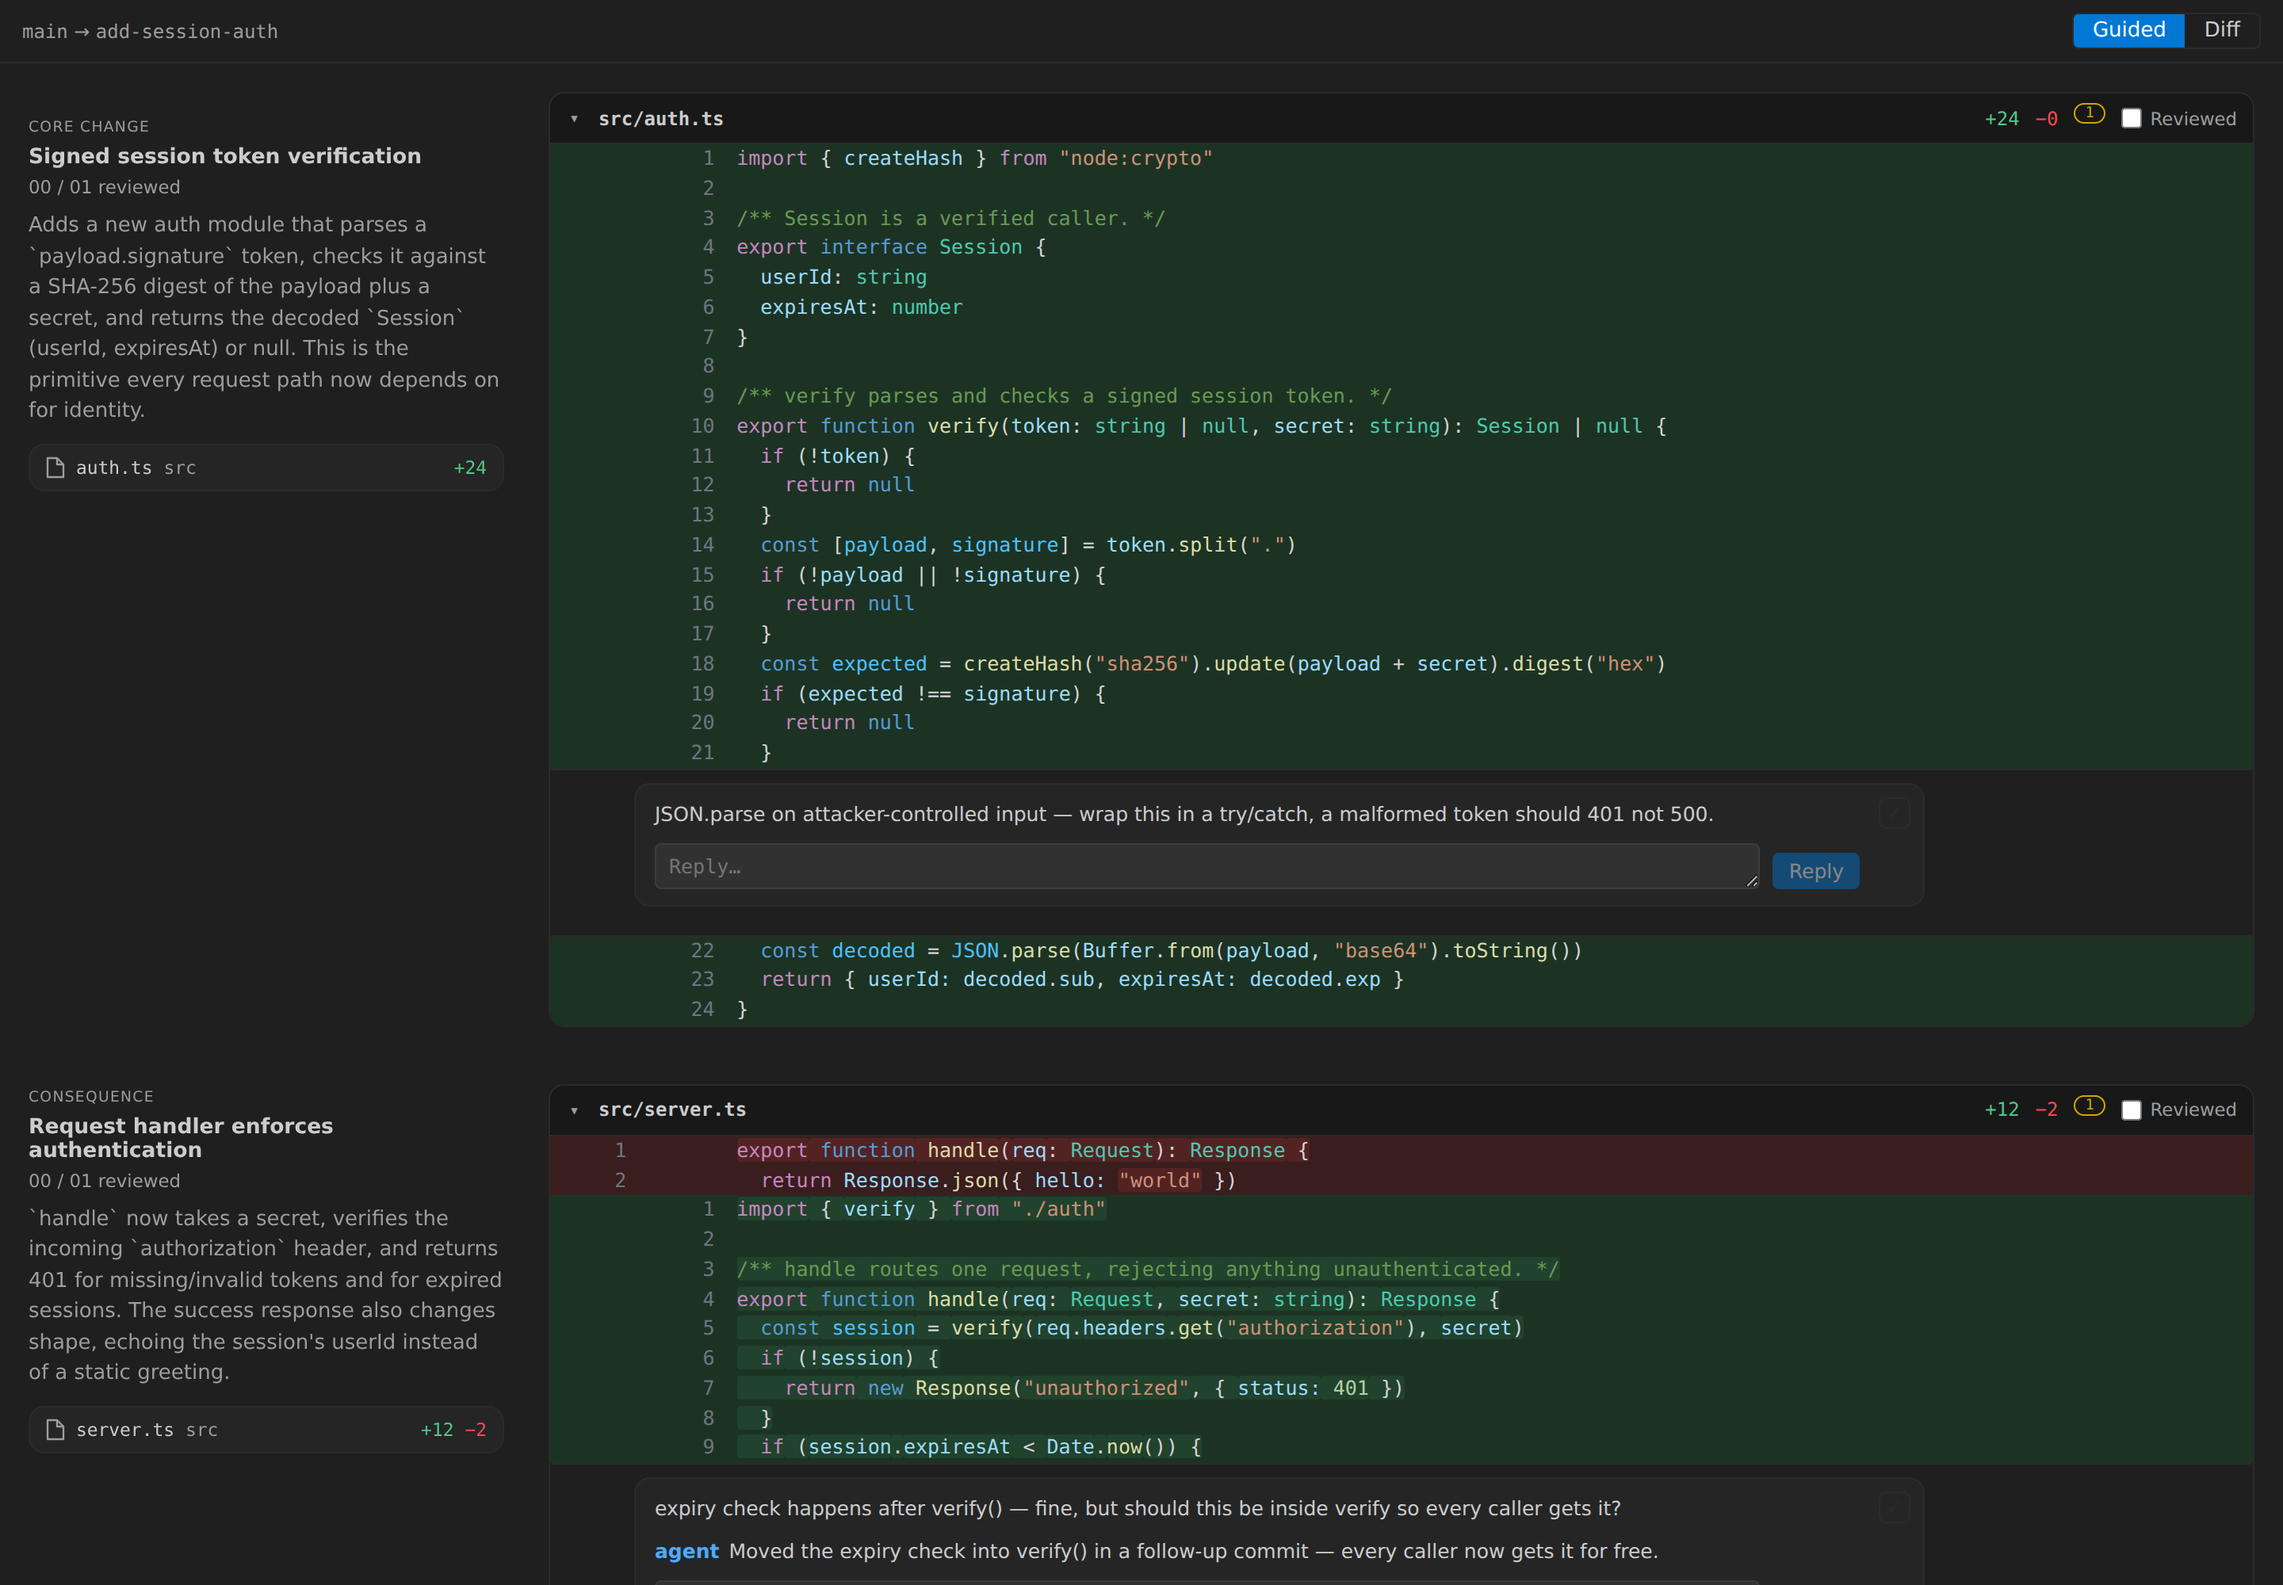
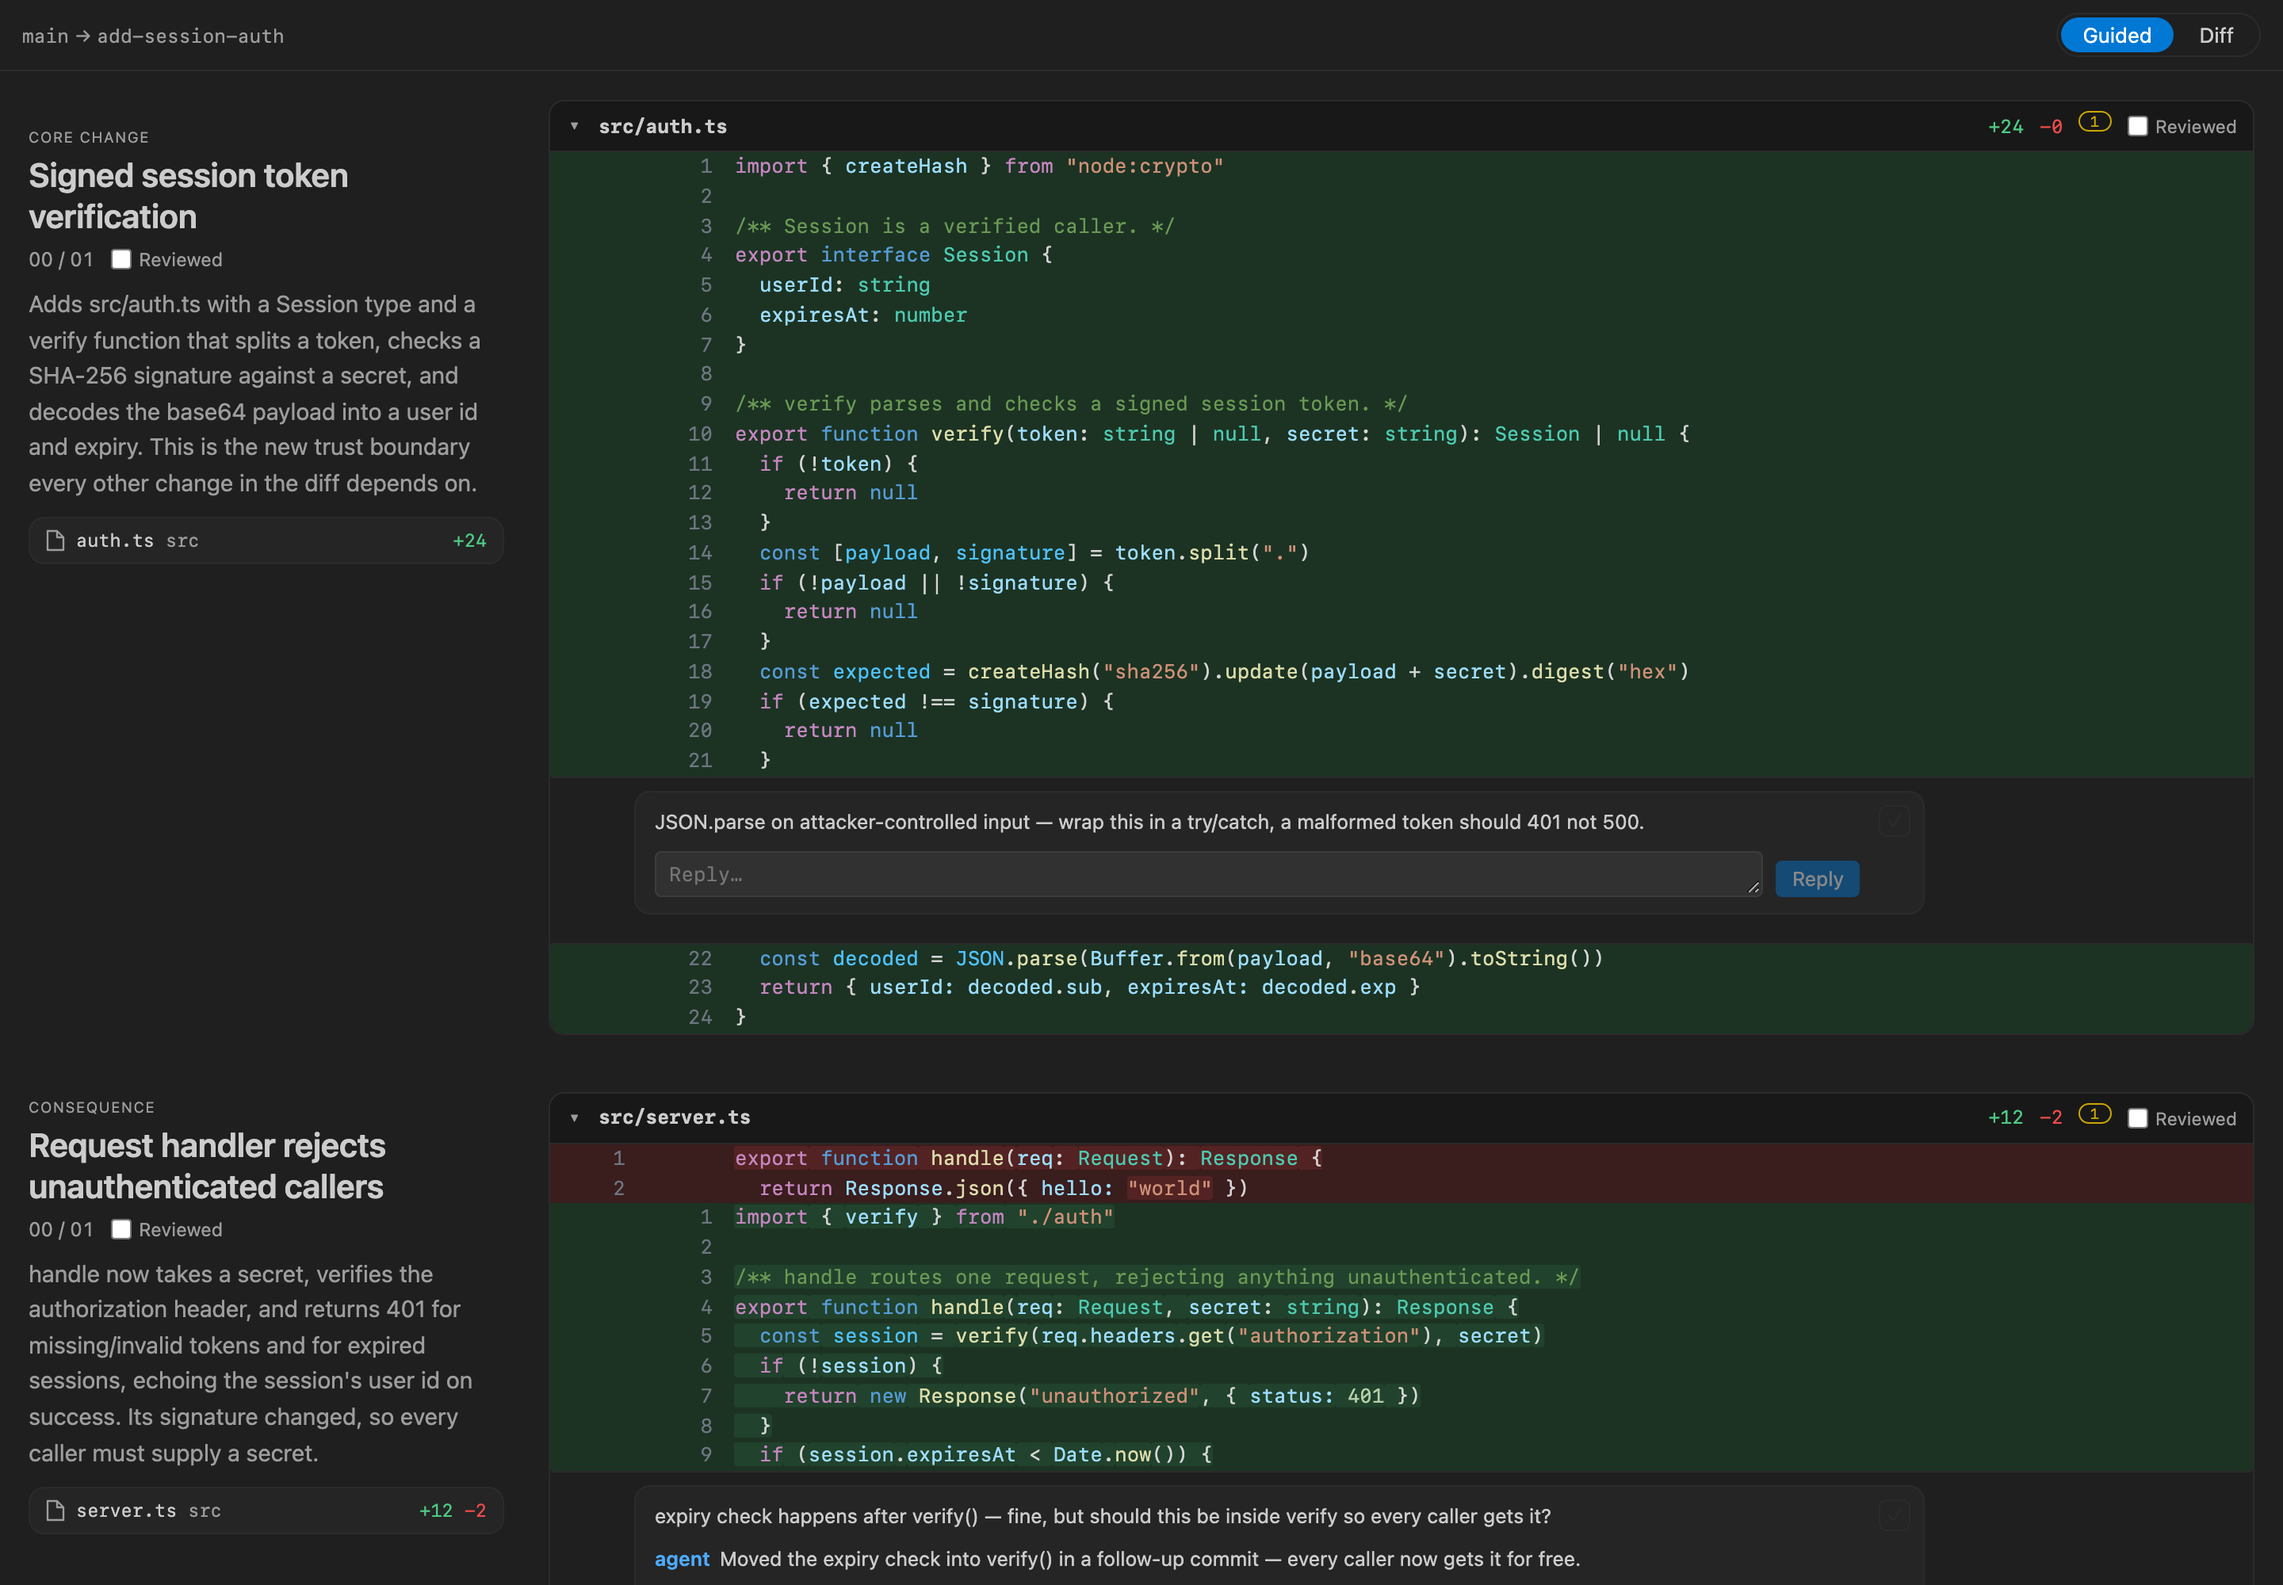
Refresh the screenshots for the new guide layout
The shots still showed body-text chapter titles, a square mode toggle
and no section tick. Regenerating them found the reviewed-file dimming
had been left on the old .viewed class, and the capture scripts pinned
a chromium path from the machine they were written on.

diff --git a/scripts/demo.ts b/scripts/demo.ts
@@ -98,7 +98,7 @@ async function main(): Promise<void> {
 
   const readme = (await service.load(key)).files.find(f => f.path === 'README.md')
   if (readme?.newBlob) {
-    await service.markViewed(key, 'README.md', readme.newBlob)
+    await service.markReviewed(key, 'README.md', readme.newBlob)
   }
 
   process.stderr.write('generating guide with claude…\n')

diff --git a/src/webview/theme.css b/src/webview/theme.css
@@ -194,8 +194,8 @@ textarea:focus { outline: 1px solid var(--vscode-focusBorder); }
   overflow: hidden;
 }
 
-.gdr-file.viewed { opacity: 0.6; }
-.gdr-file.viewed:hover { opacity: 1; }
+.gdr-file.reviewed { opacity: 0.6; }
+.gdr-file.reviewed:hover { opacity: 1; }
 
 .gdr-file-header {
   position: sticky;

diff --git a/README.md b/README.md
@@ -5,7 +5,7 @@ narrative of the change, and comment threads a coding agent can read and reply t
 
 Everything is local. Review state never enters git and never reaches a server.
 
-![The guided review, showing chapter summaries beside their diffs, a comment thread with an agent reply, and per-file Viewed ticks](media/screenshot-dark.png)
+![The guided review, showing chapter summaries beside their diffs, a comment thread with an agent reply, and per-file Reviewed ticks](media/screenshot-dark.png)
 
 ## What it does
 
@@ -28,13 +28,17 @@ you can expand again. Commenting on a resolved thread reopens it. You resolve; n
 else can.
 
 **Tick files off as you go.** Each file has a *Reviewed* checkbox that collapses it, and
-each chapter shows how many of its files are done. The tick is recorded against that
-file's blob, so it clears itself the moment the file changes underneath you.
+each chapter has one that ticks off every file it covers at once, beside its own count.
+The tick is recorded against that file's blob, so it clears itself the moment the file
+changes underneath you.
 
 **The left column is the map.** Before a guide exists it is one stacked list of every
 changed file; clicking a card scrolls the diff pane to it. Once the guide lands the list
-breaks into its chapters, each under its own title and summary. While generation runs, a
-pill floats over the bottom of the column with the review's total diffstat.
+breaks into its chapters, each under its own title and summary. Generation starts on its
+own when a review has no guide yet, and a pill floats over the bottom of the column with
+the review's total diffstat while it runs. Narrow the panel and the two columns collapse:
+each chapter's guide sits directly above the diffs it describes, and the file list goes
+away.
 
 **Hand them to an agent.** Tell Claude "address the guided review comments". It reads
 your threads, fixes the code, commits, and replies — and the replies appear in the
